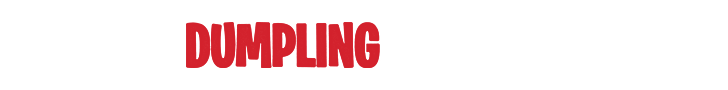
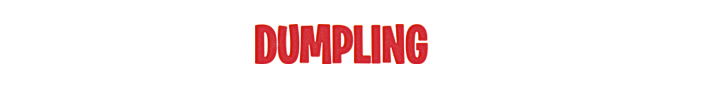
tiny kitchen 728x90 done

Changed region(s): [[0.2418, 0.2444, 0.6044, 0.7556]]

diff --git a/Atlas clickTag/Your Secret/728x90/Animation.js b/Atlas clickTag/Your Secret/728x90/Animation.js
@@ -1,12 +1,12 @@
 var home_animation = {
   boundEvents: {},  
   container: document.getElementById("container"),
+  globalLogo: document.getElementById("globalLogo"),
   init: function () {
-    
-  document.getElementById("container").style.display = "block";
+    document.getElementById("container").style.display = "block";
 
-  TweenLite.to(safe, 0, {opacity:0, scaleX:5, scaleY:5});
-  TweenLite.to(order_now, 0, {left:-10,opacity:1, scaleX:1.1, scaleY:1.1});  
+    TweenLite.to(safe, 0, {opacity:0, scaleX:5, scaleY:5});
+    TweenLite.to(order_now, 0, {left:-10,opacity:1, scaleX:1.1, scaleY:1.1});  
     home_animation.frame1();
   },
   reset: function () {    
@@ -48,6 +48,7 @@ var home_animation = {
   },
   frame6: function () {
     TweenLite.to(safe, 0.1, {opacity:0});
+    TweenLite.to(globalLogo, .2, {opacity:0, display:'none', delay: 0}); 
     TweenLite.to(logo, 0.3, {opacity:1, delay:.5});
     TweenLite.to(how, 0.3, {opacity:1, delay:.7});
     TweenLite.to(order_now, 0.3, {left:0,opacity:1, top:0, delay:.9, scaleX:1, scaleY:1});

diff --git a/Atlas clickTag/Your Secret/728x90/style.css b/Atlas clickTag/Your Secret/728x90/style.css
@@ -12,12 +12,8 @@
 	overflow:hidden;
 	display: none;
 }
-
-body{
-	margin: 0px;
-}
-
-
+body{margin: 0px;}
+.show{position: absolute;display:block;opacity:1;}
 #your, #secret, #ThreeAM, #dumpling, #order, #donuts, #and,#safe, #logo, #how, #order_now  {
 position: absolute;
 top:0px;

diff --git a/Atlas clickTag/Your Secret/728x90/728x90.html b/Atlas clickTag/Your Secret/728x90/728x90.html
@@ -13,6 +13,7 @@
 <div id="container">
 
 <!-- Frame 1 -->
+      <div id="globalLogo" class="show"><img src="globalLogo.png" /></div>
 <div id="your"><img src="your.png"></div>
 <div id="secret"><img src="secret.png"></div>
 
